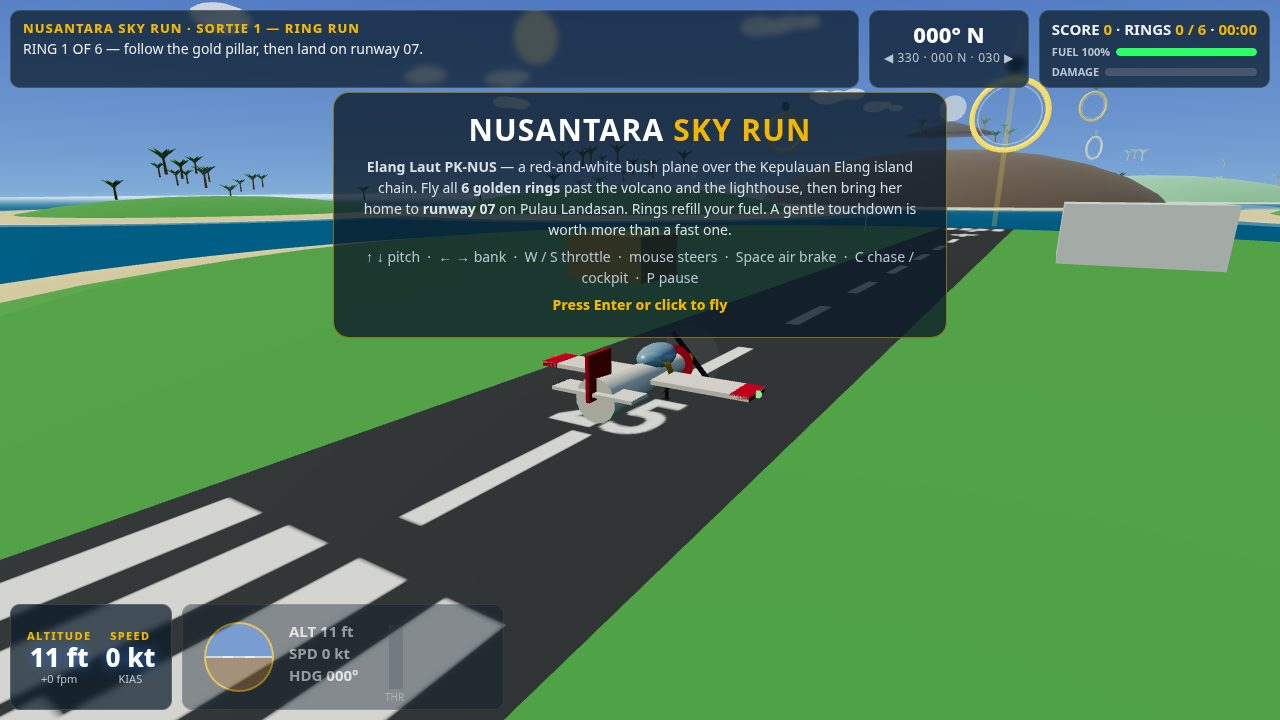
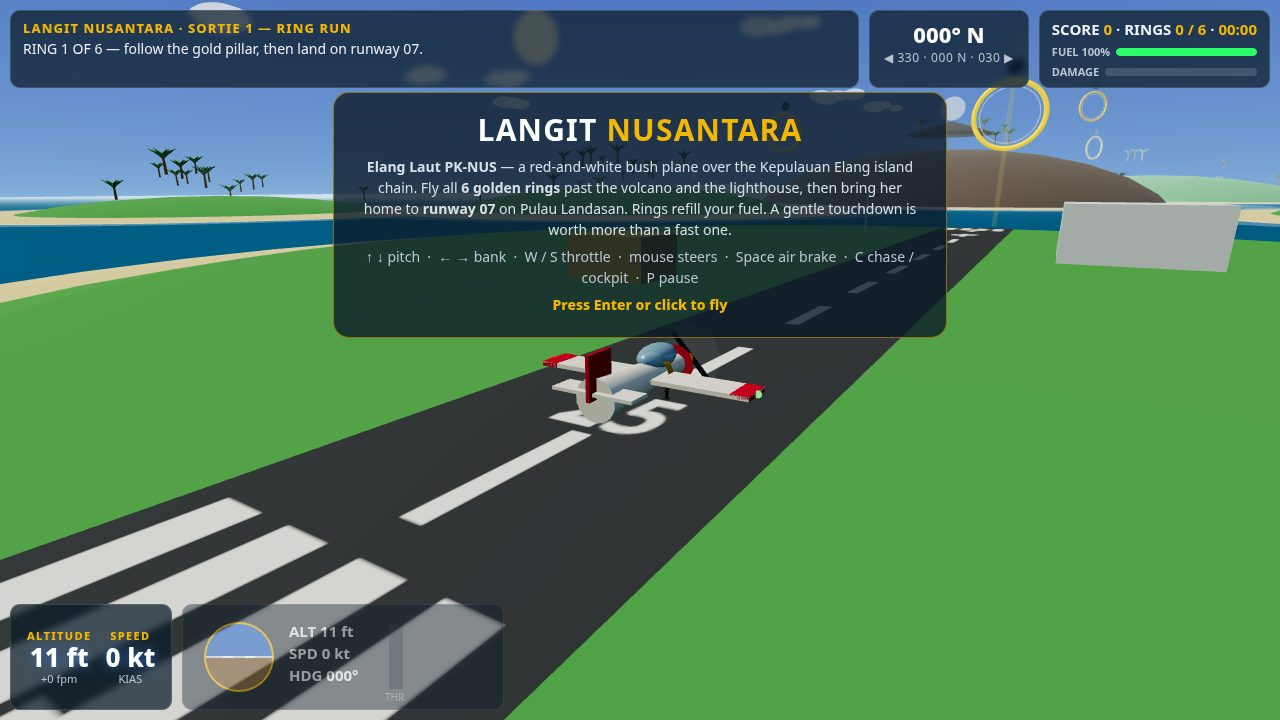
Rename the game to Langit Nusantara (was Nusantara Sky Run)

Changed region(s): [[0.3438, 0.1528, 0.6562, 0.2139], [0.0, 0.0306, 0.2812, 0.0611], [0.75, 0.0917, 0.8438, 0.2139]]

diff --git a/game/index.html b/game/index.html
@@ -3,7 +3,7 @@
 <head>
 <meta charset="utf-8">
 <meta name="viewport" content="width=device-width, initial-scale=1">
-<title>Nusantara Sky Run — Island Ring Run</title>
+<title>Langit Nusantara — Island Ring Run</title>
 <style>
   html, body { margin: 0; height: 100%; overflow: hidden; background: #0b1c2c; font-family: system-ui, -apple-system, "Segoe UI", sans-serif; color: #eef1f5; }
   #game { position: fixed; inset: 0; width: 100%; height: 100%; display: block; touch-action: none; }
@@ -53,12 +53,12 @@
 </script>
 </head>
 <body>
-<canvas id="game" aria-label="Nusantara Sky Run: fly the Elang Laut bush plane through golden rings over an island chain, then land on runway 07"></canvas>
+<canvas id="game" aria-label="Langit Nusantara: fly the Elang Laut bush plane through golden rings over an island chain, then land on runway 07"></canvas>
 <p id="status" role="status" aria-live="polite"></p>
 
 <div id="hud-top">
   <div id="hud-mission" class="panel">
-    <div class="name">NUSANTARA SKY RUN · SORTIE 1 — RING RUN</div>
+    <div class="name">LANGIT NUSANTARA · SORTIE 1 — RING RUN</div>
     <div id="hud-objective">Fly the gold rings, then land on runway 07.</div>
   </div>
   <div id="hud-compass-box" class="panel">
@@ -83,7 +83,7 @@
 
 <div id="overlay-title" class="overlay" style="display:flex">
   <div class="overlay-card">
-    <h1>NUSANTARA <span class="gold">SKY RUN</span></h1>
+    <h1>LANGIT <span class="gold">NUSANTARA</span></h1>
     <p><b>Elang Laut PK-NUS</b> — a red-and-white bush plane over the Kepulauan Elang island chain. Fly all <b>6 golden rings</b> past the volcano and the lighthouse, then bring her home to <b>runway 07</b> on Pulau Landasan. Rings refill your fuel. A gentle touchdown is worth more than a fast one.</p>
     <p class="controls">↑ ↓ pitch &nbsp;·&nbsp; ← → bank &nbsp;·&nbsp; W / S throttle &nbsp;·&nbsp; mouse steers &nbsp;·&nbsp; Space air brake &nbsp;·&nbsp; C chase / cockpit &nbsp;·&nbsp; P pause</p>
     <p class="cta">Press Enter or click to fly</p>

diff --git a/main.ts b/main.ts
@@ -1,4 +1,4 @@
-// Nusantara Sky Run — a 3D flight game for the make.fun bounty "Make the best
+// Langit Nusantara — a 3D flight game for the make.fun bounty "Make the best
 // flight game" (best-flight-game-20261126-0057), entered as @amiou9. The game
 // is this directory's game/ folder, plain static files a desktop browser loads
 // offline (game/index.html and its ES modules, three.js 0.187.0 vendored as

diff --git a/game/src/main.js b/game/src/main.js
@@ -226,7 +226,7 @@ function runGame() {
     }
   });
 
-  announce('Nusantara Sky Run. Press Enter or click to fly.');
+  announce('Langit Nusantara. Press Enter or click to fly.');
   requestAnimationFrame(frame);
 }
 

diff --git a/README.md b/README.md
@@ -2,7 +2,7 @@
 [![rank](https://make.fun/badge/best-flight-game-20261126-0057/Amiou9/best-flight-game-20261126-0057/rank.svg)](https://make.fun/bounty/best-flight-game-20261126-0057/leaderboard?utm_source=github&utm_medium=readme&utm_campaign=best-flight-game-20261126-0057)
 [![reward](https://make.fun/badge/best-flight-game-20261126-0057/Amiou9/best-flight-game-20261126-0057/reward.svg)](https://make.fun/bounty/best-flight-game-20261126-0057?utm_source=github&utm_medium=readme&utm_campaign=best-flight-game-20261126-0057)
 
-# Nusantara Sky Run
+# Langit Nusantara
 
 A 3D flight game for the make.fun bounty "Make the best flight game" (best-flight-game-20261126-0057), entered as @amiou9.
 
